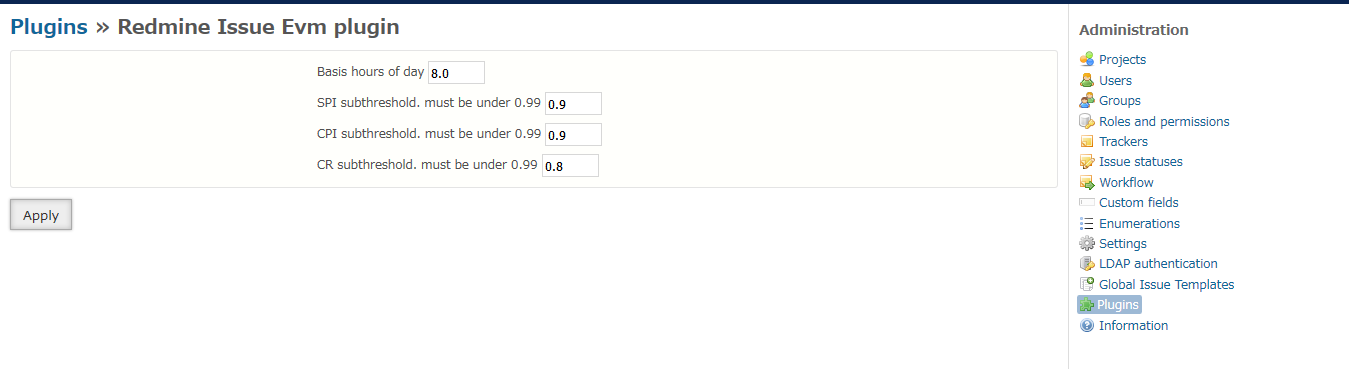
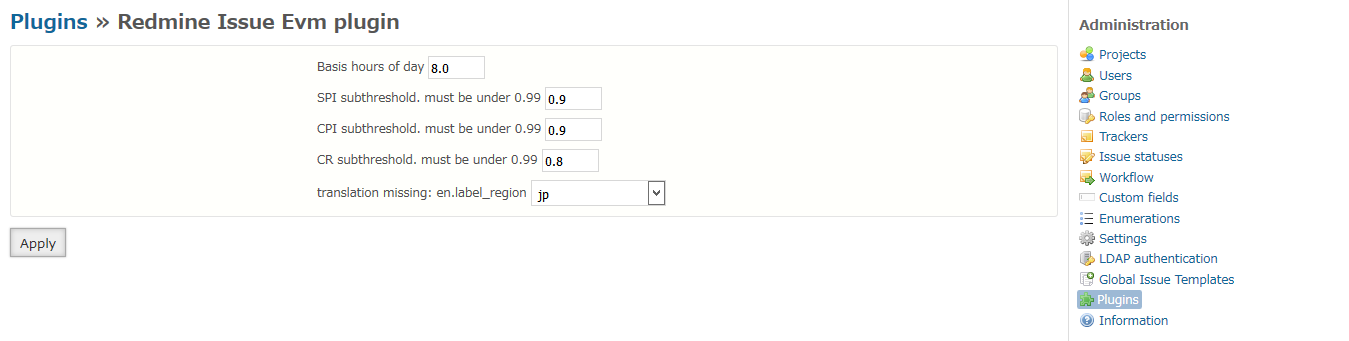
change screen shot and readme.

diff --git a/README.md b/README.md
@@ -15,11 +15,11 @@ Redmine 3.3.0 and above
 * Chart with EVM (PV,EV,AC)
 * Set the baseline　and show history
 
-#### Baseline
+## Baseline
 If you set baseline, you can know easily how project divergence is and whether new task (issues) can be added by chart. In other words, you can see whether your estimated daily workload is over or not by chart.
 PV is based on your baseline. In addition, you can set calculation without baseline by options.
 
-#### Additional options
+## Additional options
 * Explanation of EVM
 * Chart with Project Performance (SPI,CPI,CR)
 * Chart with each version
@@ -28,7 +28,7 @@ PV is based on your baseline. In addition, you can set calculation without basel
 * Change the level of the forecast
 * Show unfinished issues
 
-#### workig days
+## workig days
 1. Excluding weekends and holidays
 2. If it is only weekends or holidays, make it a working day
 3. Use holidays gem -> Regional settings are set in the plugin setting page(Administration->plugins)
@@ -55,7 +55,7 @@ In Japan, May 3, May 4, May 5 are holidays
 |--------------------|--------------------|---------------|-----------|----------|
 |May 3, 2017 (Wed)   |May 7, 2017 (Sunday)|20 hours       |5 days     |4 hours   |
 
-#### Page print
+## Page print
 If you are using the latest browser, please use the printing function of the browser.
 Printing is possible with Summary,Main-chart,Incomplete Issues.
 
@@ -71,7 +71,8 @@ If you input these into your project, it can help you to calculate both a single
 PV: Dividing estimated time by the days (from start date to due date(or effective date of version )) to get daily workload
 EV: After issues are closed, you can get EV.
 
-#### Example
+** Example **
+
 (1) Create an issue with:
 
 * start date:  2015/08/01
@@ -113,28 +114,33 @@ Charts are displayed using HigthChart. See below for license.
 It is a license that can not be used for commercial purposes.
 https://creativecommons.org/licenses/by-nc/3.0/
 
-#### Main chart
+** Main chart **
+
 Show PV,EV,AC with baseline.Display unclosed issues according to the baseline.
 
-#### Performance chart
+** Performance chart **
+
 Show SPI,CPI,CR of the days involved with PV,EV,AC
 
-#### Version chart
+** Version chart **
+
 Show PV,EV,AC of every version in the issue
 
 # Installation
-#### Getting plugin source
-case of zip file.
+(1) Getting plugin source
+
+** case of zip file. **
 
 * Download zip-file
 * Create a folder named redmine_issue_evm under [redmine_root]/plugins/
 * Extract zip file in redmine_issue_evm
 
-Case of git clone.
+** Case of git clone. **
+
 ```
 git clone git://github.com/momibun926/redmine_issue_evm [redmine_root]/plugins/redmine_issue_evm
 ```
-#### Migration and restart
+(2) Migration and restart
 
 * Input the below command to migration
 ```
@@ -148,17 +154,16 @@ rake redmine:plugins:migrate NAME=redmine_issue_evm VERSION=0
 ```
 
 # Screen shots
-#### Overview
+** Overview **
 ![evm sample screenshot](./images/screenshot01.png "overview")
 
-#### Baseline setting
-History
+** Baseline History **
 ![evm sample screenshot](./images/screenshot02.png "History")
 
-New baseline
+** Create baseline **
 ![evm sample screenshot](./images/screenshot03.png "New baseline")
 
-#### Plugin Setting
+** Plugin Setting **
 ![evm sample screenshot](./images/screenshot04.png "plugin　setting")
 
 # Contributing
